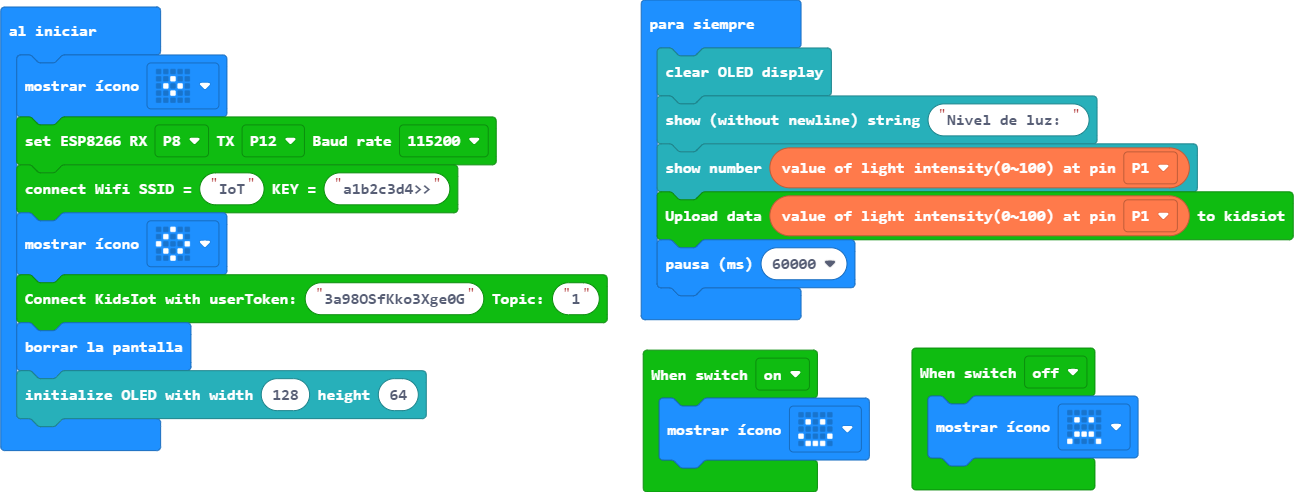
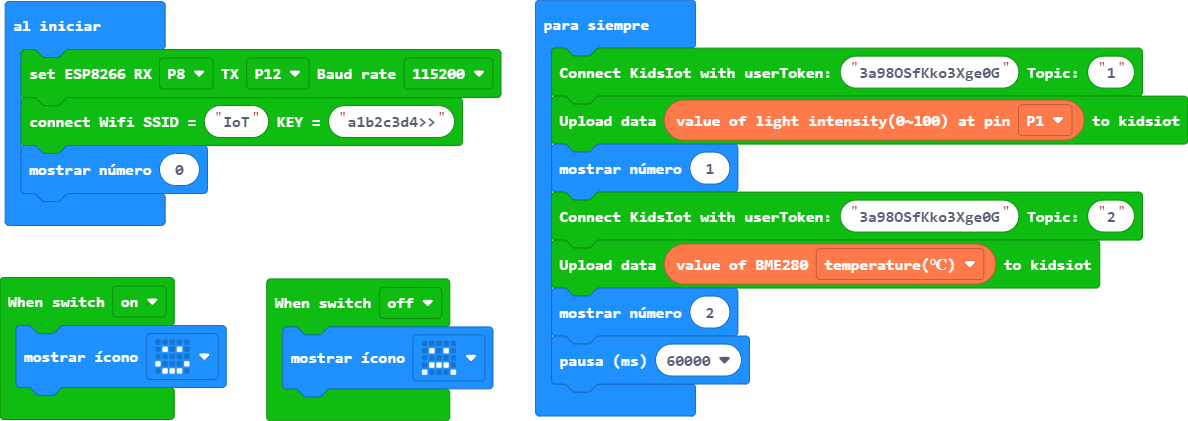
Mas simple

diff --git a/main.ts b/main.ts
@@ -4,17 +4,15 @@ ESP8266_IoT.iotSwitchEvent(ESP8266_IoT.KidsIotSwitchState.off, function () {
 ESP8266_IoT.iotSwitchEvent(ESP8266_IoT.KidsIotSwitchState.on, function () {
     basic.showIcon(IconNames.Happy)
 })
-basic.showIcon(IconNames.SmallDiamond)
 ESP8266_IoT.initWIFI(SerialPin.P8, SerialPin.P12, BaudRate.BaudRate115200)
 ESP8266_IoT.connectWifi("IoT", "a1b2c3d4>>")
-basic.showIcon(IconNames.Diamond)
-ESP8266_IoT.connectKidsiot("3a98OSfKko3Xge0G", "1")
-basic.clearScreen()
-OLED.init(128, 64)
+basic.showNumber(0)
 basic.forever(function () {
-    OLED.clear()
-    OLED.writeString("Nivel de luz: ")
-    OLED.writeNumNewLine(Environment.ReadLightIntensity(AnalogPin.P1))
+    ESP8266_IoT.connectKidsiot("3a98OSfKko3Xge0G", "1")
     ESP8266_IoT.uploadKidsiot(Environment.ReadLightIntensity(AnalogPin.P1))
+    basic.showNumber(1)
+    ESP8266_IoT.connectKidsiot("3a98OSfKko3Xge0G", "2")
+    ESP8266_IoT.uploadKidsiot(Environment.octopus_BME280(Environment.BME280_state.BME280_temperature_C))
+    basic.showNumber(2)
     basic.pause(60000)
 })
